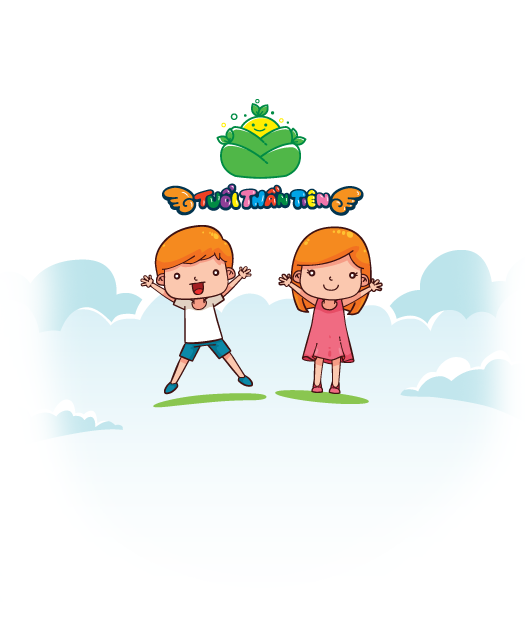
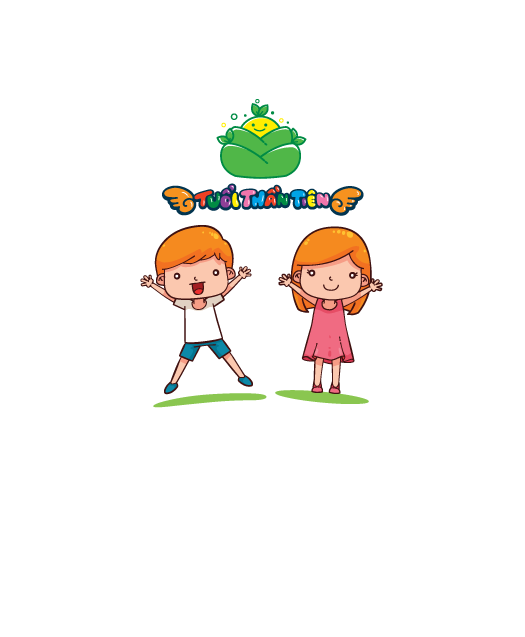
update front end

Changed region(s): [[0.061, 0.3878, 0.9448, 0.6562], [0.0914, 0.6264, 0.2438, 0.686]]

diff --git a/assets/public/theme/original/css/theme.css b/assets/public/theme/original/css/theme.css
@@ -17,6 +17,11 @@ Author: hung.luong@matocreative.vn
 
 /* CSS Body */
 
+#detail{
+    background-image: url(../img/bg_detail.png);
+    background-size: 100%;
+}
+
 #header_index_about{
     width: 1920px;
     height: 65px;
@@ -259,6 +264,14 @@ ul.list-unstyled li{
     background-repeat: no-repeat;
     background-position: center top;
     background-size: 100%;
+}
+
+.container-fluid#registerScreen{
+    background: #fff;
+    background-image: url(../img/bg_register.png);
+    background-position: top;
+    background-size: 100%;
+    background-repeat: no-repeat;
 }
 
 /* CSS Footer */

diff --git a/assets/public/theme/xmas/css/theme.css b/assets/public/theme/xmas/css/theme.css
@@ -17,6 +17,11 @@ Author: hung.luong@matocreative.vn
 
 /* CSS Body */
 
+#detail{
+    background-image: url(../img/bg_detail.png);
+    background-size: 100%;
+}
+
 #header_index_about{
     width: 1920px;
     height: 65px;
@@ -263,6 +268,14 @@ ul.list-unstyled li{
     background-repeat: no-repeat;
     background-position: center top;
     background-size: 100%;
+}
+
+.container-fluid#registerScreen{
+    background: #fff;
+    background-image: url(../img/bg_register.png);
+    background-position: top;
+    background-size: 100%;
+    background-repeat: no-repeat;
 }
 
 /* CSS Footer */

diff --git a/assets/public/css/register.css b/assets/public/css/register.css
@@ -18,3 +18,8 @@ Author: hung.luong@matocreative.vn
 .container#registerScreen{
     padding-bottom: 12em;
 }
+
+.form-horizontal .form-group {
+    margin-right: 0;
+    margin-left: -0;
+}

diff --git a/assets/public/css/blog.css b/assets/public/css/blog.css
@@ -68,3 +68,8 @@ Author: hung.luong@matocreative.vn
 .item iframe{
 	min-height: 500px;
 }
+
+.screen_title{
+	margin-top: 50px;
+	margin-bottom: 30px;
+}

diff --git a/application/views/detail_parental_view.php b/application/views/detail_parental_view.php
@@ -1,6 +1,6 @@
 <link rel="stylesheet" type="text/css" href="<?php echo site_url('assets/public/css/blog.css') ?>">
 
-<section class="main_content">
+<section class="main_content" id="detail">
     <div class="container">
         <div class="row">
             <div class="category col-md-3 col-sm-3 col-xs-12">
@@ -12,7 +12,7 @@
                     <ul class="list-unstyled list-group">
                         <?php if ($sidebar != ''): ?>
                             <?php foreach ($sidebar as $key => $value): ?>
-                                <li class="list-group-item"><a href="<?php echo base_url('phoi-hop-cung-phu-huynh/'.$category['slug'].'/'.$value['slug']) ?>" <?php echo ($value['slug'] == $this->uri->segment(3))? 'style="color: blue"' : '' ?> ><?php echo $value['title'] ?></a></li>
+                                <li class="list-group-item"><a href="<?php echo base_url('phoi-hop-cung-phu-huynh/'.$category['slug'].'/'.$value['slug']) ?>" <?php echo ($value['slug'] == $this->uri->segment(3))? 'style="color: #008b44"' : '' ?> ><?php echo $value['title'] ?></a></li>
                             <?php endforeach ?>
                         <?php else: ?>
 
@@ -113,12 +113,12 @@
                     <h1>Đăng ký nhập học</h1>
                     <p>Text giới thiệu chung về các chương trình</p>
                 </div>
-                <div class="col-md-6 col-sm-6 col-xs-12">
+                <div class="col-md-6 col-sm-6 col-xs-12 wow slideInUp">
                     <div id="register_image"></div>
                 </div>
                 <div class="col-md-6 col-sm-6 col-xs-12">
-                    <h1><?php echo $procedure['title'] ?></h1>
-                    <?php echo $procedure['content'] ?>
+                    <h1>Đăng ký nhập học</h1>
+                    <p>Lorem ipsum dolor sit amet, consectetur adipiscing elit. In molestie enim non odio mattis, sed fermentum elit sodales. Duis bibendum mi sed pulvinar interdum. Donec euismod ipsum vitae ligula posuere, id elementum lacus rhoncus. Nullam ullamcorper urna et elementum viverra. Sed in sem ultrices, mattis nunc sit amet, sollicitudin sem. Mauris tincidunt mauris mi, quis viverra justo consequat nec. Cras nibh quam, cursus at lorem sit amet, scelerisque euismod enim. Nam a interdum velit. Donec pharetra fermentum erat, sed commodo lectus venenatis quis. Integer elit augue, varius quis laoreet vitae, cursus sit amet libero. Integer iaculis libero vel venenatis vehicula. Integer accumsan nulla felis, non congue erat tincidunt sed.</p>
                     <a class="btn btn-primary hvr-icon-forward" role="button" href="<?php echo base_url('nhap-hoc/dang-ky-nhap-hoc') ?>">Đăng ký ngay</a>
                 </div>
             </div>

diff --git a/application/views/detail_admission_view.php b/application/views/detail_admission_view.php
@@ -1,6 +1,6 @@
 <link rel="stylesheet" type="text/css" href="<?php echo site_url('assets/public/css/blog.css') ?>">
 
-<section class="main_content">
+<section class="main_content" id="detail">
     <div class="container">
         <div class="row">
             <div class="category col-md-3 col-sm-3 col-xs-12">
@@ -12,7 +12,7 @@
                     <ul class="list-unstyled list-group">
                         <?php if ($sidebar != ''): ?>
                             <?php foreach ($sidebar as $key => $value): ?>
-                                <li class="list-group-item"><a href="<?php echo base_url('thong-tin-nhap-hoc/'.$category['slug'].'/'.$value['slug']) ?>" <?php echo ($value['slug'] == $this->uri->segment(3))? 'style="color: blue"' : '' ?> ><?php echo $value['title'] ?></a></li>
+                                <li class="list-group-item"><a href="<?php echo base_url('thong-tin-nhap-hoc/'.$category['slug'].'/'.$value['slug']) ?>" <?php echo ($value['slug'] == $this->uri->segment(3))? 'style="color: #008b44"' : '' ?> ><?php echo $value['title'] ?></a></li>
                             <?php endforeach ?>
                         <?php else: ?>
 
@@ -113,12 +113,12 @@
                     <h1>Đăng ký nhập học</h1>
                     <p>Text giới thiệu chung về các chương trình</p>
                 </div>
-                <div class="col-md-6 col-sm-6 col-xs-12">
+                <div class="col-md-6 col-sm-6 col-xs-12 wow slideInUp">
                     <div id="register_image"></div>
                 </div>
                 <div class="col-md-6 col-sm-6 col-xs-12">
-                    <h1><?php echo $procedure['title'] ?></h1>
-                    <?php echo $procedure['content'] ?>
+                    <h1>Đăng ký nhập học</h1>
+                    <p>Lorem ipsum dolor sit amet, consectetur adipiscing elit. In molestie enim non odio mattis, sed fermentum elit sodales. Duis bibendum mi sed pulvinar interdum. Donec euismod ipsum vitae ligula posuere, id elementum lacus rhoncus. Nullam ullamcorper urna et elementum viverra. Sed in sem ultrices, mattis nunc sit amet, sollicitudin sem. Mauris tincidunt mauris mi, quis viverra justo consequat nec. Cras nibh quam, cursus at lorem sit amet, scelerisque euismod enim. Nam a interdum velit. Donec pharetra fermentum erat, sed commodo lectus venenatis quis. Integer elit augue, varius quis laoreet vitae, cursus sit amet libero. Integer iaculis libero vel venenatis vehicula. Integer accumsan nulla felis, non congue erat tincidunt sed.</p>
                     <a class="btn btn-primary hvr-icon-forward" role="button" href="<?php echo base_url('nhap-hoc/dang-ky-nhap-hoc') ?>">Đăng ký ngay</a>
                 </div>
             </div>

diff --git a/application/views/detail_activity_view.php b/application/views/detail_activity_view.php
@@ -1,6 +1,6 @@
 <link rel="stylesheet" type="text/css" href="<?php echo site_url('assets/public/css/blog.css') ?>">
 
-<section class="main_content">
+<section class="main_content" id="detail">
     <div class="container">
         <div class="row">
             <div class="category col-md-3 col-sm-3 col-xs-12">
@@ -12,7 +12,7 @@
                     <ul class="list-unstyled list-group">
                         <?php if ($sidebar != ''): ?>
                             <?php foreach ($sidebar as $key => $value): ?>
-                                <li class="list-group-item"><a href="<?php echo base_url('hoat-dong/'.$category['slug'].'/'.$value['slug']) ?>" <?php echo ($value['slug'] == $this->uri->segment(3))? 'style="color: blue"' : '' ?> ><?php echo $value['title'] ?></a></li>
+                                <li class="list-group-item"><a href="<?php echo base_url('hoat-dong/'.$category['slug'].'/'.$value['slug']) ?>" <?php echo ($value['slug'] == $this->uri->segment(3))? 'style="color: #008b44"' : '' ?> ><?php echo $value['title'] ?></a></li>
                             <?php endforeach ?>
                         <?php else: ?>
 
@@ -110,7 +110,7 @@
                     <h1>Đăng ký nhập học</h1>
                     <p>Text giới thiệu chung về các chương trình</p>
                 </div>
-                <div class="col-md-6 col-sm-6 col-xs-12">
+                <div class="col-md-6 col-sm-6 col-xs-12 wow slideInUp">
                     <div id="register_image"></div>
                 </div>
                 <div class="col-md-6 col-sm-6 col-xs-12">

diff --git a/application/views/detail_article_view.php b/application/views/detail_article_view.php
@@ -1,6 +1,6 @@
 <link rel="stylesheet" type="text/css" href="<?php echo site_url('assets/public/css/blog.css') ?>">
 
-<section class="main_content">
+<section class="main_content" id="detail">
     <div class="container">
         <div class="row">
             <div class="category col-md-3 col-sm-3 col-xs-12">
@@ -12,7 +12,7 @@
                     <ul class="list-unstyled list-group">
                         <?php if ($sidebar != ''): ?>
                             <?php foreach ($sidebar as $key => $value): ?>
-                                <li class="list-group-item"><a href="<?php echo base_url('bai-viet/'.$value['slug']) ?>" <?php echo ($value['slug'] == $this->uri->segment(3))? 'style="color: blue"' : '' ?> ><?php echo $value['title'] ?></a></li>
+                                <li class="list-group-item"><a href="<?php echo base_url('bai-viet/'.$value['slug']) ?>" <?php echo ($value['slug'] == $this->uri->segment(3))? 'style="color: #008b44"' : '' ?> ><?php echo $value['title'] ?></a></li>
                             <?php endforeach ?>
                         <?php else: ?>
 
@@ -110,7 +110,7 @@
                     <h1>Đăng ký nhập học</h1>
                     <p>Text giới thiệu chung về các chương trình</p>
                 </div>
-                <div class="col-md-6 col-sm-6 col-xs-12">
+                <div class="col-md-6 col-sm-6 col-xs-12 wow slideInUp">
                     <div id="register_image"></div>
                 </div>
                 <div class="col-md-6 col-sm-6 col-xs-12">

diff --git a/application/views/detail_introduce_view.php b/application/views/detail_introduce_view.php
@@ -1,6 +1,6 @@
 <link rel="stylesheet" type="text/css" href="<?php echo site_url('assets/public/css/blog.css') ?>">
 
-<section class="main_content">
+<section class="main_content" id="detail">
     <div class="container">
         <div class="row">
             <div class="category col-md-3 col-sm-3 col-xs-12">
@@ -8,7 +8,7 @@
                 <ul class="list-unstyled">
                     <?php if ($sidebar != ''): ?>
                         <?php foreach ($sidebar as $key => $value): ?>
-                            <li><a href="<?php echo base_url('gioi-thieu/'.$category['slug'].'/'.$value['slug']) ?>" <?php echo ($value['slug'] == $this->uri->segment(3))? 'style="color: blue"' : '' ?> ><?php echo $value['title'] ?></a></li>
+                            <li><a href="<?php echo base_url('gioi-thieu/'.$category['slug'].'/'.$value['slug']) ?>" <?php echo ($value['slug'] == $this->uri->segment(3))? 'style="color: #008b44"' : '' ?> ><?php echo $value['title'] ?></a></li>
                         <?php endforeach ?>
                     <?php else: ?>
 
@@ -107,7 +107,7 @@
                     <h1>Đăng ký nhập học</h1>
                     <p>Text giới thiệu chung về các chương trình</p>
                 </div>
-                <div class="col-md-6 col-sm-6 col-xs-12">
+                <div class="col-md-6 col-sm-6 col-xs-12 wow slideInUp">
                     <div id="register_image"></div>
                 </div>
                 <div class="col-md-6 col-sm-6 col-xs-12">

diff --git a/application/views/detail_image_view.php b/application/views/detail_image_view.php
@@ -1,7 +1,7 @@
 <link rel="stylesheet" type="text/css" href="<?php echo site_url('assets/public/css/blog.css') ?>">
 <link rel="stylesheet" type="text/css" href="<?php echo site_url('assets/public/js/lightbox-plus-jquery.css') ?>">
 
-<section class="main_content">
+<section class="main_content" id="detail">
     <div class="container">
         <div class="row">
             <div class="category col-md-3 col-sm-3 col-xs-12">
@@ -61,7 +61,7 @@
                     <h1>Đăng ký nhập học</h1>
                     <p>Text giới thiệu chung về các chương trình</p>
                 </div>
-                <div class="col-md-6 col-sm-6 col-xs-12">
+                <div class="col-md-6 col-sm-6 col-xs-12 wow slideInUp">
                     <div id="register_image"></div>
                 </div>
                 <div class="col-md-6 col-sm-6 col-xs-12">

diff --git a/application/views/list_activity_view.php b/application/views/list_activity_view.php
@@ -1,6 +1,6 @@
 <link rel="stylesheet" type="text/css" href="<?php echo site_url('assets/public/css/blog.css') ?>">
 
-<section class="main_content">
+<section class="main_content" id="detail">
     <div class="container">
         <div class="row">
             <div class="category col-md-3 col-sm-3 col-xs-12">
@@ -62,7 +62,7 @@
                     <h1>Đăng ký nhập học</h1>
                     <p>Text giới thiệu chung về các chương trình</p>
                 </div>
-                <div class="col-md-6 col-sm-6 col-xs-12">
+                <div class="col-md-6 col-sm-6 col-xs-12 wow slideInUp">
                     <div id="register_image"></div>
                 </div>
                 <div class="col-md-6 col-sm-6 col-xs-12">

diff --git a/application/views/list_admission_view.php b/application/views/list_admission_view.php
@@ -1,6 +1,6 @@
 <link rel="stylesheet" type="text/css" href="<?php echo site_url('assets/public/css/blog.css') ?>">
 
-<section class="main_content">
+<section class="main_content" id="detail">
     <div class="container">
         <div class="row">
             <div class="category col-md-3 col-sm-3 col-xs-12">
@@ -62,7 +62,7 @@
                     <h1>Đăng ký nhập học</h1>
                     <p>Text giới thiệu chung về các chương trình</p>
                 </div>
-                <div class="col-md-6 col-sm-6 col-xs-12">
+                <div class="col-md-6 col-sm-6 col-xs-12 wow slideInUp">
                     <div id="register_image"></div>
                 </div>
                 <div class="col-md-6 col-sm-6 col-xs-12">
